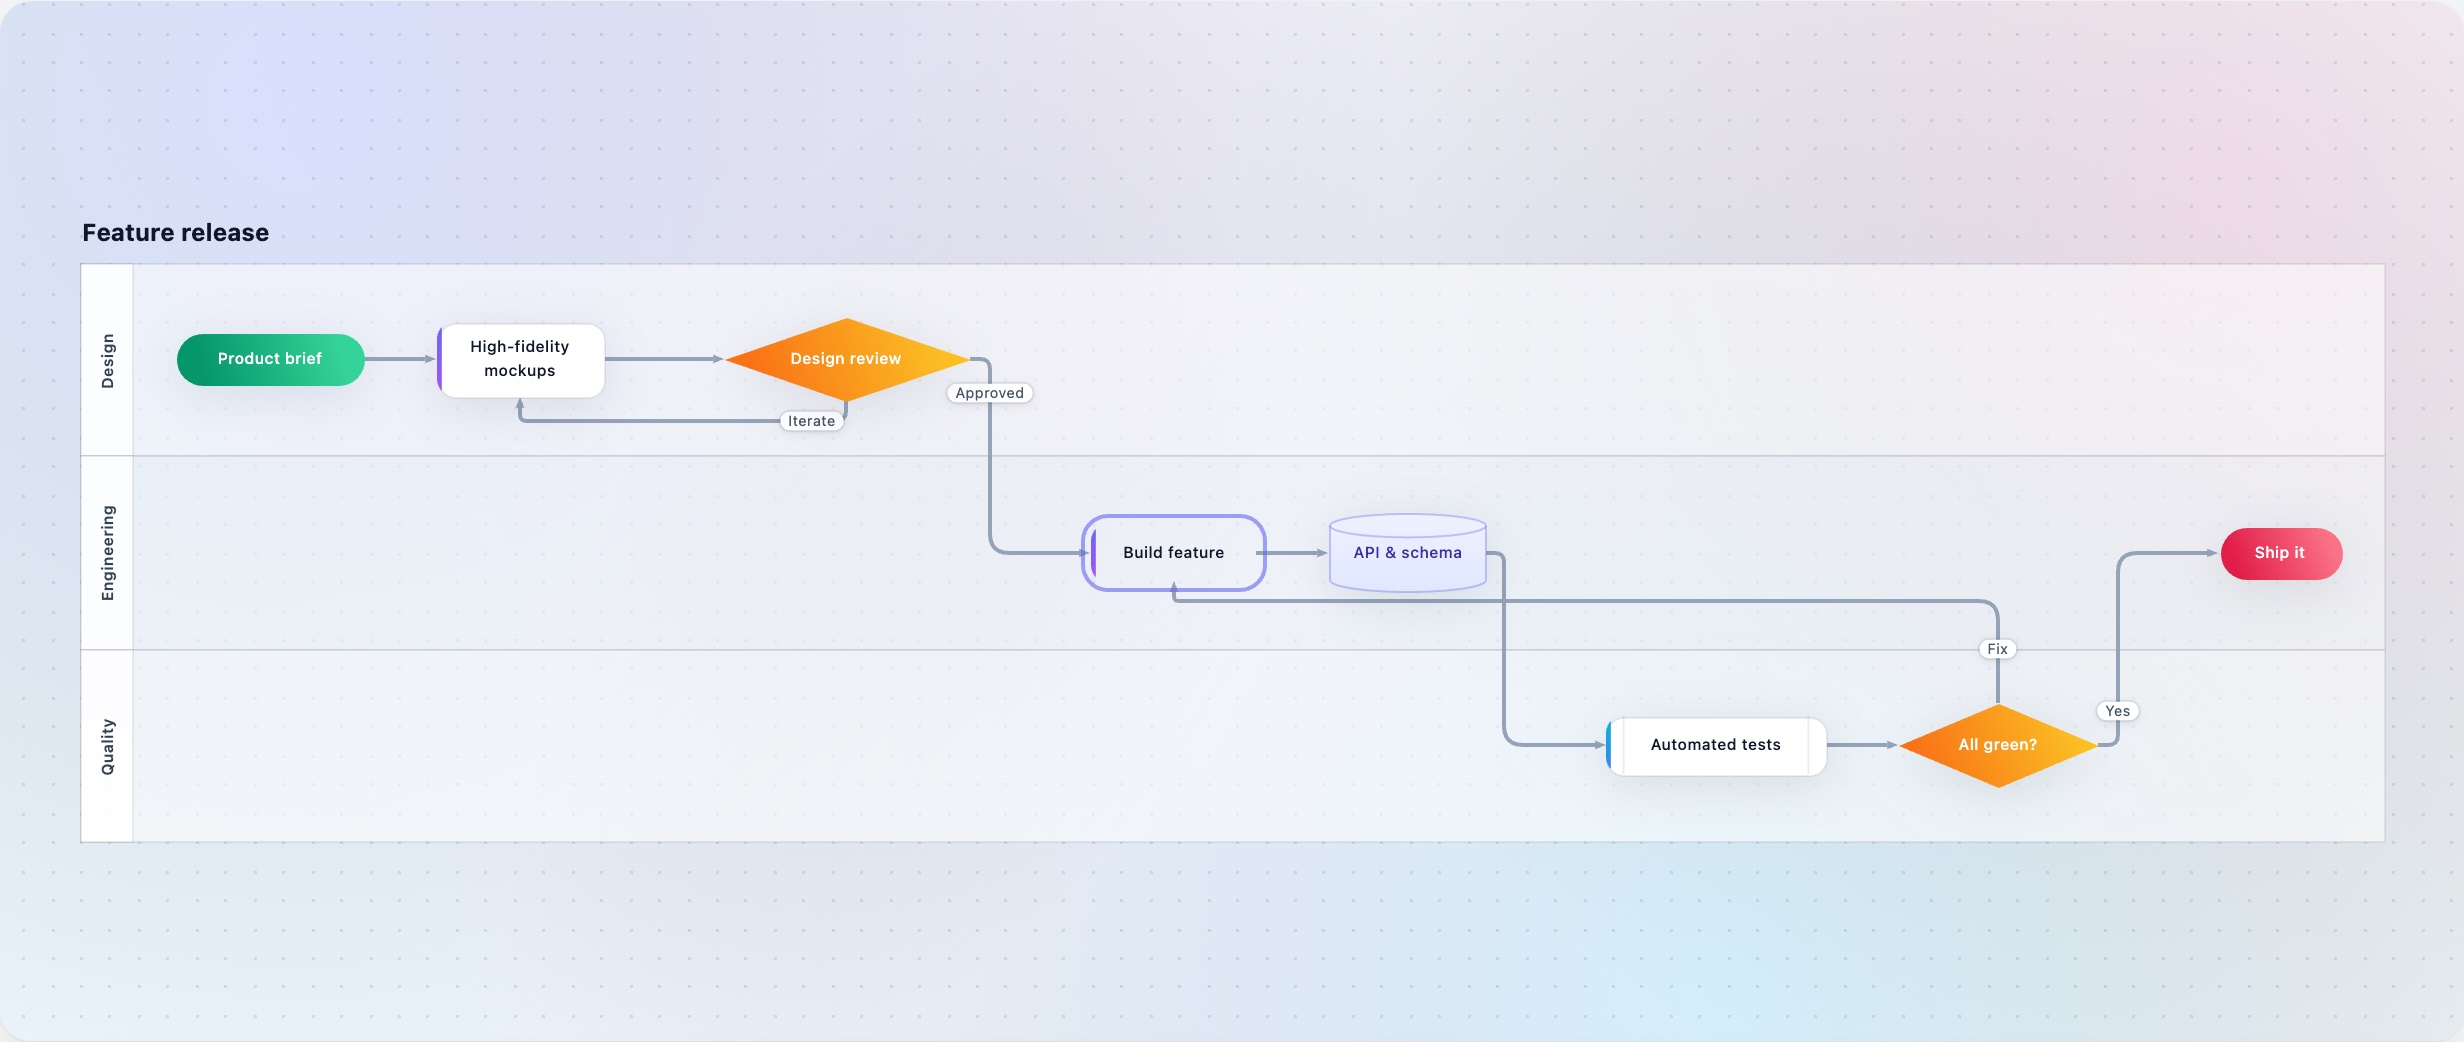
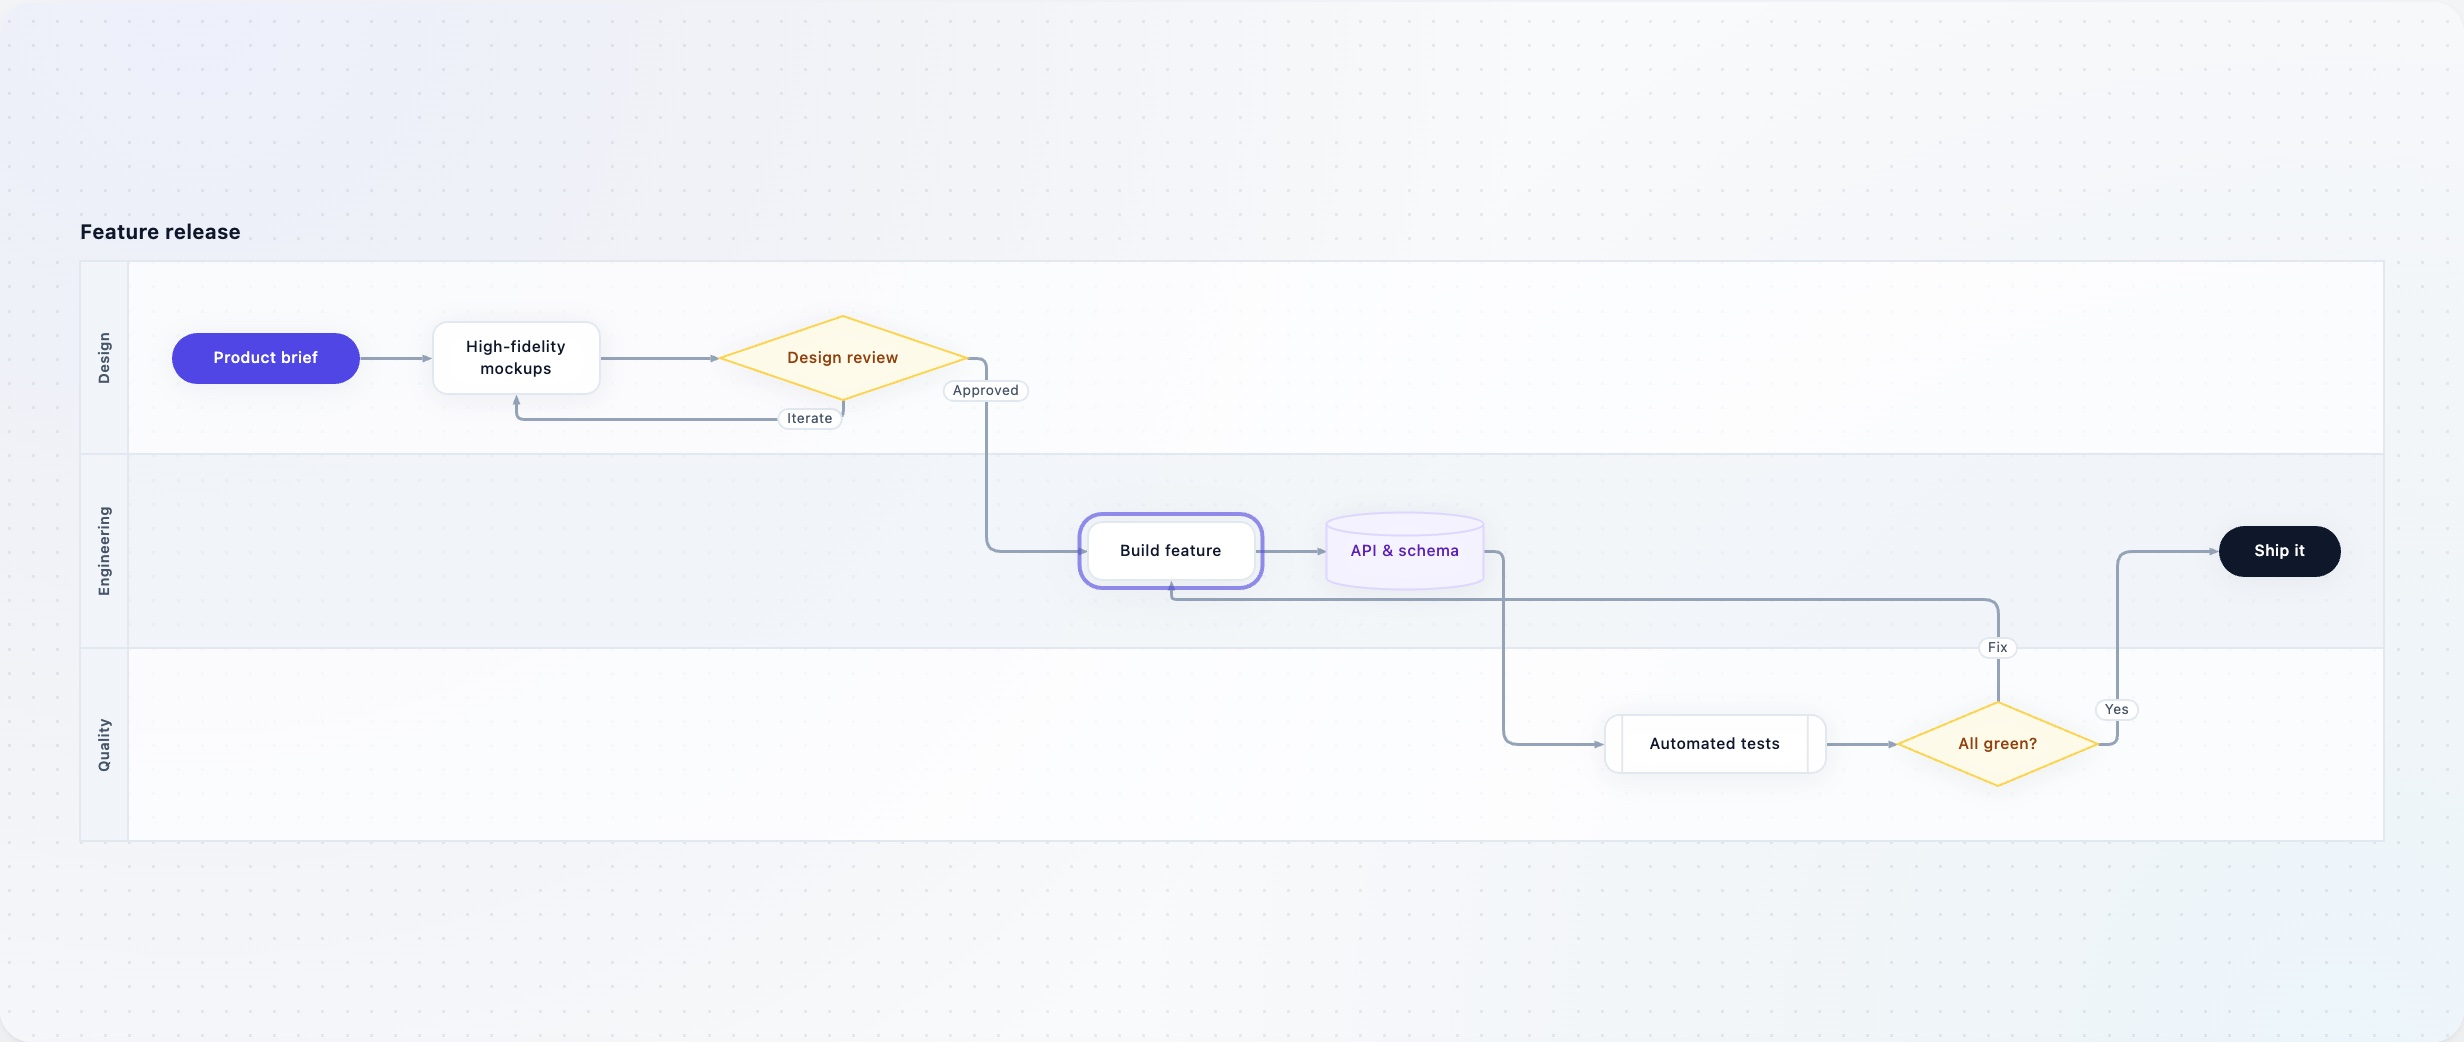
Redesign aurora themes with a calmer palette
Replace the rainbow gradients, accent bars and pink/cyan glows with a restrained product-UI look: near-white or near-black canvas with one faint glow, cards with hairline borders and a soft shadow, a solid indigo start pill, an ink end pill (inverted in dark), and pale tints with matching borders for decisions, data, I/O and the other shapes. Edge labels lose their shadow, edges get thinner. Docs, case page 15 text and screenshots updated.

diff --git a/src/theme/modernThemes.ts b/src/theme/modernThemes.ts
@@ -1,141 +1,153 @@
 import { createFlowTheme, type FlowTheme } from './flowTheme';
 import { lightTheme } from './lightThemes';
 import { buildShapes } from './themeDefaults';
-import { linearGradient } from '../render/flowColor';
 
-const MODERN_FONT = 'Inter, "SF Pro Display", -apple-system, BlinkMacSystemFont, "Segoe UI", "PingFang SC", "Microsoft YaHei", sans-serif';
-/** Top-left to bottom-right, the usual direction for modern UI gradients. */
-const DIAGONAL = 135;
-const WHITE = '#ffffff';
+const MODERN_FONT = 'Inter, "SF Pro Text", -apple-system, BlinkMacSystemFont, "Segoe UI", "PingFang SC", "Microsoft YaHei", sans-serif';
 
-/** Shared metrics: roomy cards, rounded corners, soft lift, pill labels, ring selection. */
+/**
+ * Shared metrics: roomy cards with a 12px radius, a soft lift, thin connectors
+ * with rounded corners, pill labels and ring selection. No accent bars:
+ * shapes are told apart by a light tint instead.
+ */
 const MODERN_METRICS = {
   fontFamily: MODERN_FONT,
-  text: { fontSize: 13, fontWeight: 500, lineHeight: 19, paddingX: 18, paddingY: 12 },
+  text: { fontSize: 13, fontWeight: 500, lineHeight: 18, paddingX: 18, paddingY: 12 },
   node: {
     lineWidth: 1,
     activeLineWidth: 1,
-    radius: 14,
+    radius: 12,
     maxWidth: 190,
-    accentWidth: 4,
+    accentWidth: 3,
     selectionStyle: 'ring' as const,
-    hoverLift: 1.6,
-    glowBlur: 20,
+    hoverLift: 1.8,
+    glowBlur: 18,
   },
   edge: {
-    lineWidth: 2,
+    lineWidth: 1.5,
     activeLineWidth: 2,
-    cornerRadius: 16,
+    cornerRadius: 12,
     targetArrow: 'triangle' as const,
-    arrowSize: 9,
-    labelFontSize: 12,
+    arrowSize: 7,
+    labelFontSize: 11.5,
     labelRadius: 999,
   },
-  lane: { headerFontSize: 13, headerFontWeight: 600, headerSize: 44, padding: 36 },
-  title: { fontSize: 20, fontWeight: 700, height: 52, fill: 'transparent' },
+  lane: { headerFontSize: 12, headerFontWeight: 600, headerSize: 40, padding: 36 },
+  title: { fontSize: 17, fontWeight: 650, height: 48, fill: 'transparent' },
   statusIndicator: 'dot' as const,
-  statusDot: { radius: 4, isVisible: true },
+  statusDot: { radius: 3.5, isVisible: true },
 };
 
-const INK = '#0f172a';
-const HAIRLINE = 'rgba(15,23,42,0.08)';
+/** Light palette: slate neutrals, one indigo brand color, and pale tints for shape kinds. */
+const LIGHT = {
+  canvas: '#f8fafc',
+  card: '#ffffff',
+  ink: '#0f172a',
+  muted: '#475569',
+  border: '#e2e8f0',
+  edge: '#94a3b8',
+  brand: '#4f46e5',
+  brandSoft: '#a5b4fc',
+};
 
 /**
- * Aurora: a bright, airy look in the style of current product UIs. White
- * cards with a gradient accent bar and a soft floating shadow, vivid
- * gradient terminals and decisions, slate connectors with pill labels, and
- * pastel glows behind a faint dot grid.
+ * Aurora: a calm, product-UI look. White cards with hairline borders and a
+ * soft shadow on a near-white canvas with one faint glow, solid indigo start
+ * and ink-black end pills, and pale tints for decisions, data and I/O, so the
+ * diagram reads by shape rather than by loud color.
  */
 export const auroraTheme: FlowTheme = createFlowTheme(createFlowTheme(lightTheme, MODERN_METRICS), {
-  background: linearGradient(DIAGONAL, '#f8fafc', '#f5f3ff', '#f0f9ff'),
+  background: LIGHT.canvas,
   backdrop: {
     blobs: [
-      { x: 0.12, y: 0.1, radius: 0.45, color: 'rgba(129,140,248,0.22)' },
-      { x: 0.9, y: 0.2, radius: 0.4, color: 'rgba(236,72,153,0.14)' },
-      { x: 0.7, y: 0.95, radius: 0.5, color: 'rgba(34,211,238,0.16)' },
+      { x: 0.08, y: 0, radius: 0.55, color: 'rgba(99,102,241,0.07)' },
+      { x: 0.95, y: 1, radius: 0.5, color: 'rgba(14,165,233,0.05)' },
     ],
   },
-  grid: { type: 'dot', size: 24, color: 'rgba(100,116,139,0.18)' },
-  shapes: buildShapes({ fill: WHITE, stroke: HAIRLINE, text: INK, accent: linearGradient(90, '#6366f1', '#a855f7') }, {
-    start: { fill: linearGradient(DIAGONAL, '#34d399', '#059669'), stroke: 'transparent', text: WHITE },
-    end: { fill: linearGradient(DIAGONAL, '#fb7185', '#e11d48'), stroke: 'transparent', text: WHITE },
-    decision: { fill: linearGradient(DIAGONAL, '#fbbf24', '#f97316'), stroke: 'transparent', text: WHITE },
-    io: { fill: linearGradient(DIAGONAL, '#f0f9ff', '#e0f2fe'), stroke: 'rgba(14,165,233,0.35)', text: '#075985' },
-    circle: { fill: linearGradient(DIAGONAL, '#818cf8', '#4f46e5'), stroke: 'transparent', text: WHITE },
-    hexagon: { fill: linearGradient(DIAGONAL, '#c084fc', '#7c3aed'), stroke: 'transparent', text: WHITE },
-    document: { fill: WHITE, stroke: HAIRLINE, text: INK },
-    database: { fill: linearGradient(90, '#eef2ff', '#e0e7ff'), stroke: 'rgba(99,102,241,0.35)', text: '#3730a3' },
-    subprocess: { fill: WHITE, stroke: HAIRLINE, text: INK, accent: linearGradient(90, '#06b6d4', '#3b82f6') },
+  grid: { type: 'dot', size: 20, color: 'rgba(15,23,42,0.07)' },
+  shapes: buildShapes({ fill: LIGHT.card, stroke: LIGHT.border, text: LIGHT.ink }, {
+    start: { fill: LIGHT.brand, stroke: 'transparent', text: '#ffffff' },
+    end: { fill: LIGHT.ink, stroke: 'transparent', text: '#ffffff' },
+    decision: { fill: '#fffbeb', stroke: '#fcd34d', text: '#92400e' },
+    io: { fill: '#f0f9ff', stroke: '#bae6fd', text: '#075985' },
+    circle: { fill: '#eef2ff', stroke: '#c7d2fe', text: '#3730a3' },
+    hexagon: { fill: '#f0fdfa', stroke: '#99f6e4', text: '#115e59' },
+    database: { fill: '#f5f3ff', stroke: '#ddd6fe', text: '#5b21b6' },
   }),
-  node: { shadowColor: 'rgba(15,23,42,0.10)', shadowBlur: 24, shadowOffsetY: 8 },
+  node: { shadowColor: 'rgba(15,23,42,0.06)', shadowBlur: 14, shadowOffsetY: 3 },
   edge: {
-    stroke: '#94a3b8',
-    labelColor: '#475569',
-    labelBackground: WHITE,
-    labelBorder: HAIRLINE,
-    labelShadowColor: 'rgba(15,23,42,0.10)',
+    stroke: LIGHT.edge,
+    labelColor: LIGHT.muted,
+    labelBackground: LIGHT.card,
+    labelBorder: LIGHT.border,
+    labelShadowColor: 'transparent',
   },
   lane: {
-    fill: 'rgba(255,255,255,0.55)',
-    alternateFill: 'rgba(248,250,252,0.55)',
-    headerFill: 'rgba(255,255,255,0.85)',
-    headerTextColor: '#334155',
-    borderColor: 'rgba(15,23,42,0.08)',
+    fill: 'rgba(255,255,255,0.7)',
+    alternateFill: 'rgba(241,245,249,0.6)',
+    headerFill: '#f1f5f9',
+    headerTextColor: LIGHT.muted,
+    borderColor: LIGHT.border,
   },
-  title: { color: INK },
-  selected: '#6366f1',
-  hover: '#818cf8',
-  port: { fill: WHITE, stroke: '#6366f1', radius: 5 },
-  status: { pending: '#cbd5e1', running: '#6366f1', done: '#10b981', error: '#f43f5e' },
+  title: { color: LIGHT.ink },
+  selected: LIGHT.brand,
+  hover: LIGHT.brandSoft,
+  port: { fill: '#ffffff', stroke: LIGHT.brand, radius: 4.5 },
+  status: { pending: '#cbd5e1', running: LIGHT.brand, done: '#10b981', error: '#ef4444' },
 });
 
-const MIST = '#e2e8f0';
-const GLASS = 'rgba(255,255,255,0.06)';
-const GLASS_EDGE = 'rgba(255,255,255,0.12)';
+/** Dark palette: near-black canvas, raised charcoal cards, the same indigo brand a step lighter. */
+const DARK = {
+  canvas: '#0b0d12',
+  card: '#161a22',
+  ink: '#e5e7eb',
+  muted: '#9ca3af',
+  border: 'rgba(255,255,255,0.09)',
+  edge: 'rgba(148,163,184,0.5)',
+  brand: '#818cf8',
+  brandSolid: '#6366f1',
+};
 
 /**
- * Aurora dark: frosted glass cards floating on a deep night background lit
- * by violet, cyan and pink glows; gradient terminals glow softly.
+ * Aurora dark: charcoal cards on a near-black canvas under one faint violet
+ * glow, a solid indigo start, an inverted light end pill, and low-opacity
+ * tints with matching borders for the other shape kinds.
  */
 export const auroraDarkTheme: FlowTheme = createFlowTheme(auroraTheme, {
-  background: linearGradient(160, '#0b1020', '#0f172a', '#111827'),
+  background: DARK.canvas,
   backdrop: {
     blobs: [
-      { x: 0.15, y: 0.15, radius: 0.5, color: 'rgba(124,58,237,0.35)' },
-      { x: 0.85, y: 0.3, radius: 0.45, color: 'rgba(6,182,212,0.22)' },
-      { x: 0.55, y: 1, radius: 0.55, color: 'rgba(236,72,153,0.18)' },
+      { x: 0.15, y: 0, radius: 0.6, color: 'rgba(99,102,241,0.14)' },
+      { x: 0.9, y: 1, radius: 0.5, color: 'rgba(14,165,233,0.07)' },
     ],
   },
-  grid: { type: 'dot', color: 'rgba(148,163,184,0.14)' },
-  shapes: buildShapes({ fill: GLASS, stroke: GLASS_EDGE, text: MIST, accent: linearGradient(90, '#a78bfa', '#22d3ee') }, {
-    start: { fill: linearGradient(DIAGONAL, '#10b981', '#06b6d4'), stroke: 'transparent', text: WHITE },
-    end: { fill: linearGradient(DIAGONAL, '#f43f5e', '#ec4899'), stroke: 'transparent', text: WHITE },
-    decision: { fill: linearGradient(DIAGONAL, '#f59e0b', '#f97316'), stroke: 'transparent', text: WHITE },
-    io: { fill: 'rgba(56,189,248,0.10)', stroke: 'rgba(56,189,248,0.45)', text: '#e0f2fe' },
-    circle: { fill: linearGradient(DIAGONAL, '#8b5cf6', '#6366f1'), stroke: 'transparent', text: WHITE },
-    hexagon: { fill: linearGradient(DIAGONAL, '#a855f7', '#ec4899'), stroke: 'transparent', text: WHITE },
-    document: { fill: GLASS, stroke: GLASS_EDGE, text: MIST },
-    database: { fill: 'rgba(99,102,241,0.18)', stroke: 'rgba(129,140,248,0.5)', text: '#e0e7ff' },
-    subprocess: { fill: GLASS, stroke: GLASS_EDGE, text: MIST, accent: linearGradient(90, '#22d3ee', '#3b82f6') },
+  grid: { type: 'dot', color: 'rgba(255,255,255,0.06)' },
+  shapes: buildShapes({ fill: DARK.card, stroke: DARK.border, text: DARK.ink }, {
+    start: { fill: DARK.brandSolid, stroke: 'transparent', text: '#ffffff' },
+    end: { fill: '#f1f5f9', stroke: 'transparent', text: '#0f172a' },
+    decision: { fill: 'rgba(245,158,11,0.10)', stroke: 'rgba(245,158,11,0.40)', text: '#fcd34d' },
+    io: { fill: 'rgba(14,165,233,0.10)', stroke: 'rgba(56,189,248,0.40)', text: '#bae6fd' },
+    circle: { fill: 'rgba(99,102,241,0.14)', stroke: 'rgba(129,140,248,0.45)', text: '#c7d2fe' },
+    hexagon: { fill: 'rgba(20,184,166,0.10)', stroke: 'rgba(45,212,191,0.40)', text: '#99f6e4' },
+    database: { fill: 'rgba(139,92,246,0.12)', stroke: 'rgba(167,139,250,0.45)', text: '#ddd6fe' },
   }),
-  node: { shadowColor: 'rgba(0,0,0,0.45)', shadowBlur: 28, shadowOffsetY: 10, glowBlur: 24 },
+  node: { shadowColor: 'rgba(0,0,0,0.5)', shadowBlur: 18, shadowOffsetY: 4, glowBlur: 20 },
   edge: {
-    stroke: 'rgba(148,163,184,0.55)',
-    labelColor: '#cbd5e1',
-    labelBackground: 'rgba(15,23,42,0.9)',
-    labelBorder: GLASS_EDGE,
-    labelShadowColor: 'rgba(0,0,0,0.4)',
+    stroke: DARK.edge,
+    labelColor: DARK.muted,
+    labelBackground: DARK.card,
+    labelBorder: DARK.border,
+    labelShadowColor: 'transparent',
   },
   lane: {
-    fill: 'rgba(255,255,255,0.025)',
-    alternateFill: 'rgba(255,255,255,0.05)',
-    headerFill: 'rgba(255,255,255,0.06)',
-    headerTextColor: MIST,
-    borderColor: 'rgba(255,255,255,0.08)',
+    fill: 'rgba(255,255,255,0.015)',
+    alternateFill: 'rgba(255,255,255,0.035)',
+    headerFill: 'rgba(255,255,255,0.03)',
+    headerTextColor: DARK.muted,
+    borderColor: 'rgba(255,255,255,0.07)',
   },
-  title: { color: '#f8fafc' },
-  selected: '#a78bfa',
-  hover: '#c4b5fd',
-  port: { fill: '#0f172a', stroke: '#a78bfa', radius: 5 },
-  status: { pending: '#475569', running: '#a78bfa', done: '#34d399', error: '#fb7185' },
+  title: { color: '#f9fafb' },
+  selected: DARK.brand,
+  hover: '#a5b4fc',
+  port: { fill: DARK.canvas, stroke: DARK.brand, radius: 4.5 },
+  status: { pending: '#4b5563', running: DARK.brand, done: '#34d399', error: '#f87171' },
 });

diff --git a/src/render/renderFlowNode.test.ts b/src/render/renderFlowNode.test.ts
@@ -5,6 +5,7 @@ import { resolveNode } from '../geometry/nodeShape';
 import { darkTheme } from '../theme/darkThemes';
 import { lightTheme } from '../theme/lightThemes';
 import { auroraTheme } from '../theme/modernThemes';
+import { createFlowTheme } from '../theme/flowTheme';
 import type { FlowNode } from '../types';
 
 interface ElementLike {
@@ -213,11 +214,22 @@ describe('renderFlowNode', () => {
     });
 
     it('should clip the accent bar to the accent width when shape is process', () => {
+      // Arrange
+      const theme = createFlowTheme(auroraTheme, { shapes: { process: { ...auroraTheme.shapes.process, accent: '#6366f1' } } });
+
+      // Act
+      const root = render(createParams([PROCESS_NODE], { theme }));
+
+      // Assert
+      expect(findChild(root, 'accent')?.clipPath?.shape?.width).toBe(theme.node.accentWidth);
+    });
+
+    it('should not draw an accent bar when the shape style has no accent', () => {
       // Act
       const root = render(createParams([PROCESS_NODE], { theme: auroraTheme }));
 
       // Assert
-      expect(findChild(root, 'accent')?.clipPath?.shape?.width).toBe(auroraTheme.node.accentWidth);
+      expect(findChild(root, 'accent')).toBeUndefined();
     });
 
     it('should not draw an accent bar when shape is decision', () => {

diff --git a/test/cases/15-aurora.html b/test/cases/15-aurora.html
@@ -9,9 +9,9 @@
     <nav class="case__nav"><a href="./index.html">← 用例列表</a></nav>
     <h1 class="case__title">15 Aurora 现代主题</h1>
     <p class="case__desc">
-      <code>aurora</code> 与 <code>aurora-dark</code>：白色（或磨砂玻璃）卡片、左侧渐变强调条、悬停时阴影抬升、
-      选中时外圈光环、渐变色的开始/结束/判断节点、药丸形连线标签，背景是渐变底色加柔和的极光光晕和点阵网格。
-      渐变通过 <code>linearGradient()</code> 定义，节点、泳道和画布背景都可以使用。悬停或点选节点查看交互效果。
+      <code>aurora</code> 与 <code>aurora-dark</code>：克制的产品界面风格。近白（或近黑）画布上一层很淡的光晕，
+      白色（或深灰）卡片配细边框和柔和阴影；开始是实心靛蓝药丸，结束是墨黑（暗色下反白）药丸，
+      判断、数据、输入输出用浅色底加同色边框区分，不再用大面积渐变。选中时外圈光环，悬停时阴影抬升。悬停或点选节点查看交互效果。
     </p>
     <div class="case__toolbar">
       <button class="case__button" id="run-button" type="button">模拟运行</button>

diff --git a/test/cases/index.html b/test/cases/index.html
@@ -67,7 +67,7 @@
       </li>
       <li class="case-list__item">
         <a class="case-list__link" href="./15-aurora.html">15 Aurora 现代主题</a>
-        <p class="case-list__desc">亮色与暗色两套现代主题：渐变强调条、悬停抬升、选中光环、极光背景、药丸标签，可模拟运行。</p>
+        <p class="case-list__desc">亮色与暗色两套现代主题：细边框卡片、实心开始/结束药丸、浅色区分节点类型、选中光环、悬停抬升，可模拟运行。</p>
       </li>
       <li class="case-list__item">
         <a class="case-list__link" href="./16-export-interop.html">16 导出与互通</a>

diff --git a/README.zh-CN.md b/README.zh-CN.md
@@ -157,7 +157,7 @@ new FlowEditor(chart, { graph, direction: 'LR', theme: 'whiteboard', layout: { i
 
 ## 主题与样式
 
-内置主题：`light`、`dark`、`macarons`、`tech-blue`、`whiteboard`、`classic`，以及现代风格的 `aurora` 和 `aurora-dark`（渐变背景加柔和光晕、白色或毛玻璃卡片配渐变强调条、环形选中框、悬停时卡片浮起）。效果见 `test/cases/15-aurora.html`。
+内置主题：`light`、`dark`、`macarons`、`tech-blue`、`whiteboard`、`classic`，以及现代风格的 `aurora` 和 `aurora-dark`（克制的产品界面风格：近白或近黑画布、细边框加柔和阴影的卡片、实心靛蓝开始和墨黑结束药丸、判断和数据节点用浅色底区分、环形选中框、悬停时卡片浮起）。效果见 `test/cases/15-aurora.html`。
 
 ![全部内置主题](./docs/images/themes.jpg)
 

diff --git a/README.md b/README.md
@@ -157,7 +157,7 @@ new FlowEditor(chart, { graph, direction: 'LR', theme: 'whiteboard', layout: { i
 
 ## Themes and styles
 
-Built-in themes: `light`, `dark`, `macarons`, `tech-blue`, `whiteboard`, `classic`, plus the modern `aurora` and `aurora-dark` (gradient background with soft glows, white or glass cards with a gradient accent bar, ring selection, cards that lift on hover). See `test/cases/15-aurora.html`.
+Built-in themes: `light`, `dark`, `macarons`, `tech-blue`, `whiteboard`, `classic`, plus the modern `aurora` and `aurora-dark` (a calm product-UI look: near-white or near-black canvas, cards with hairline borders and a soft shadow, a solid indigo start pill and an ink end pill, pale tints for decisions and data, ring selection, cards that lift on hover). See `test/cases/15-aurora.html`.
 
 ![all built-in themes](./docs/images/themes.jpg)
 
